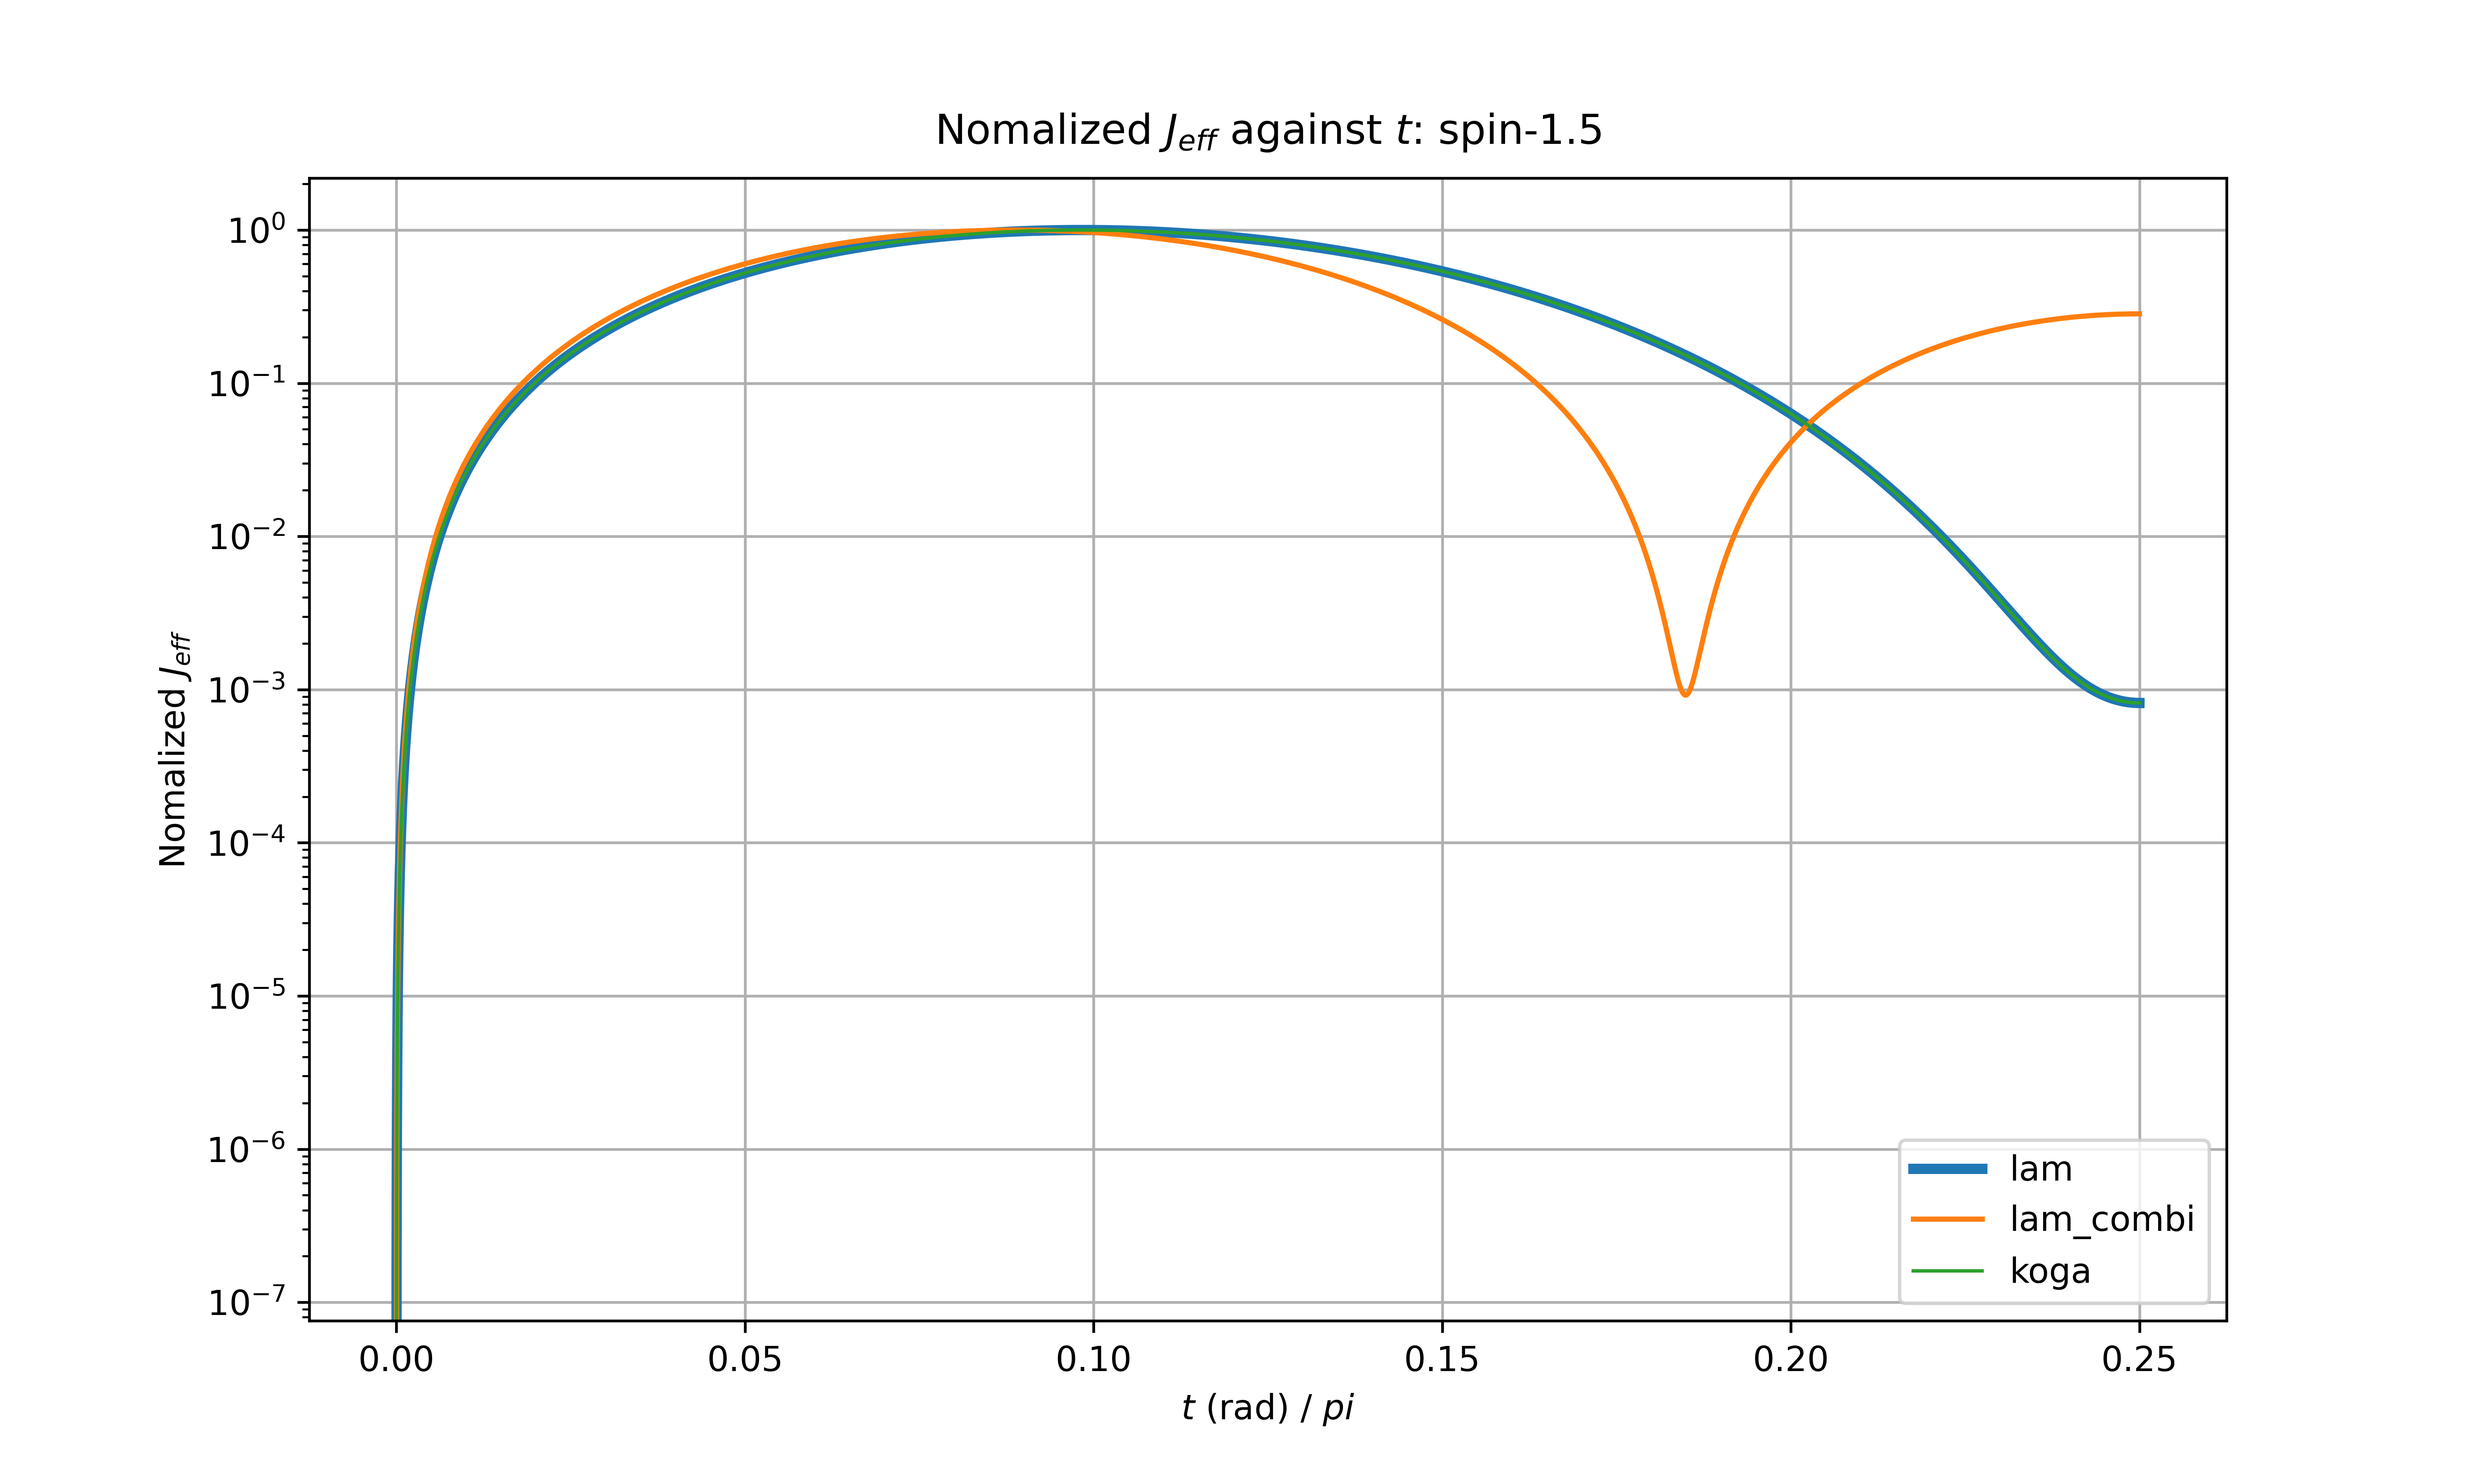
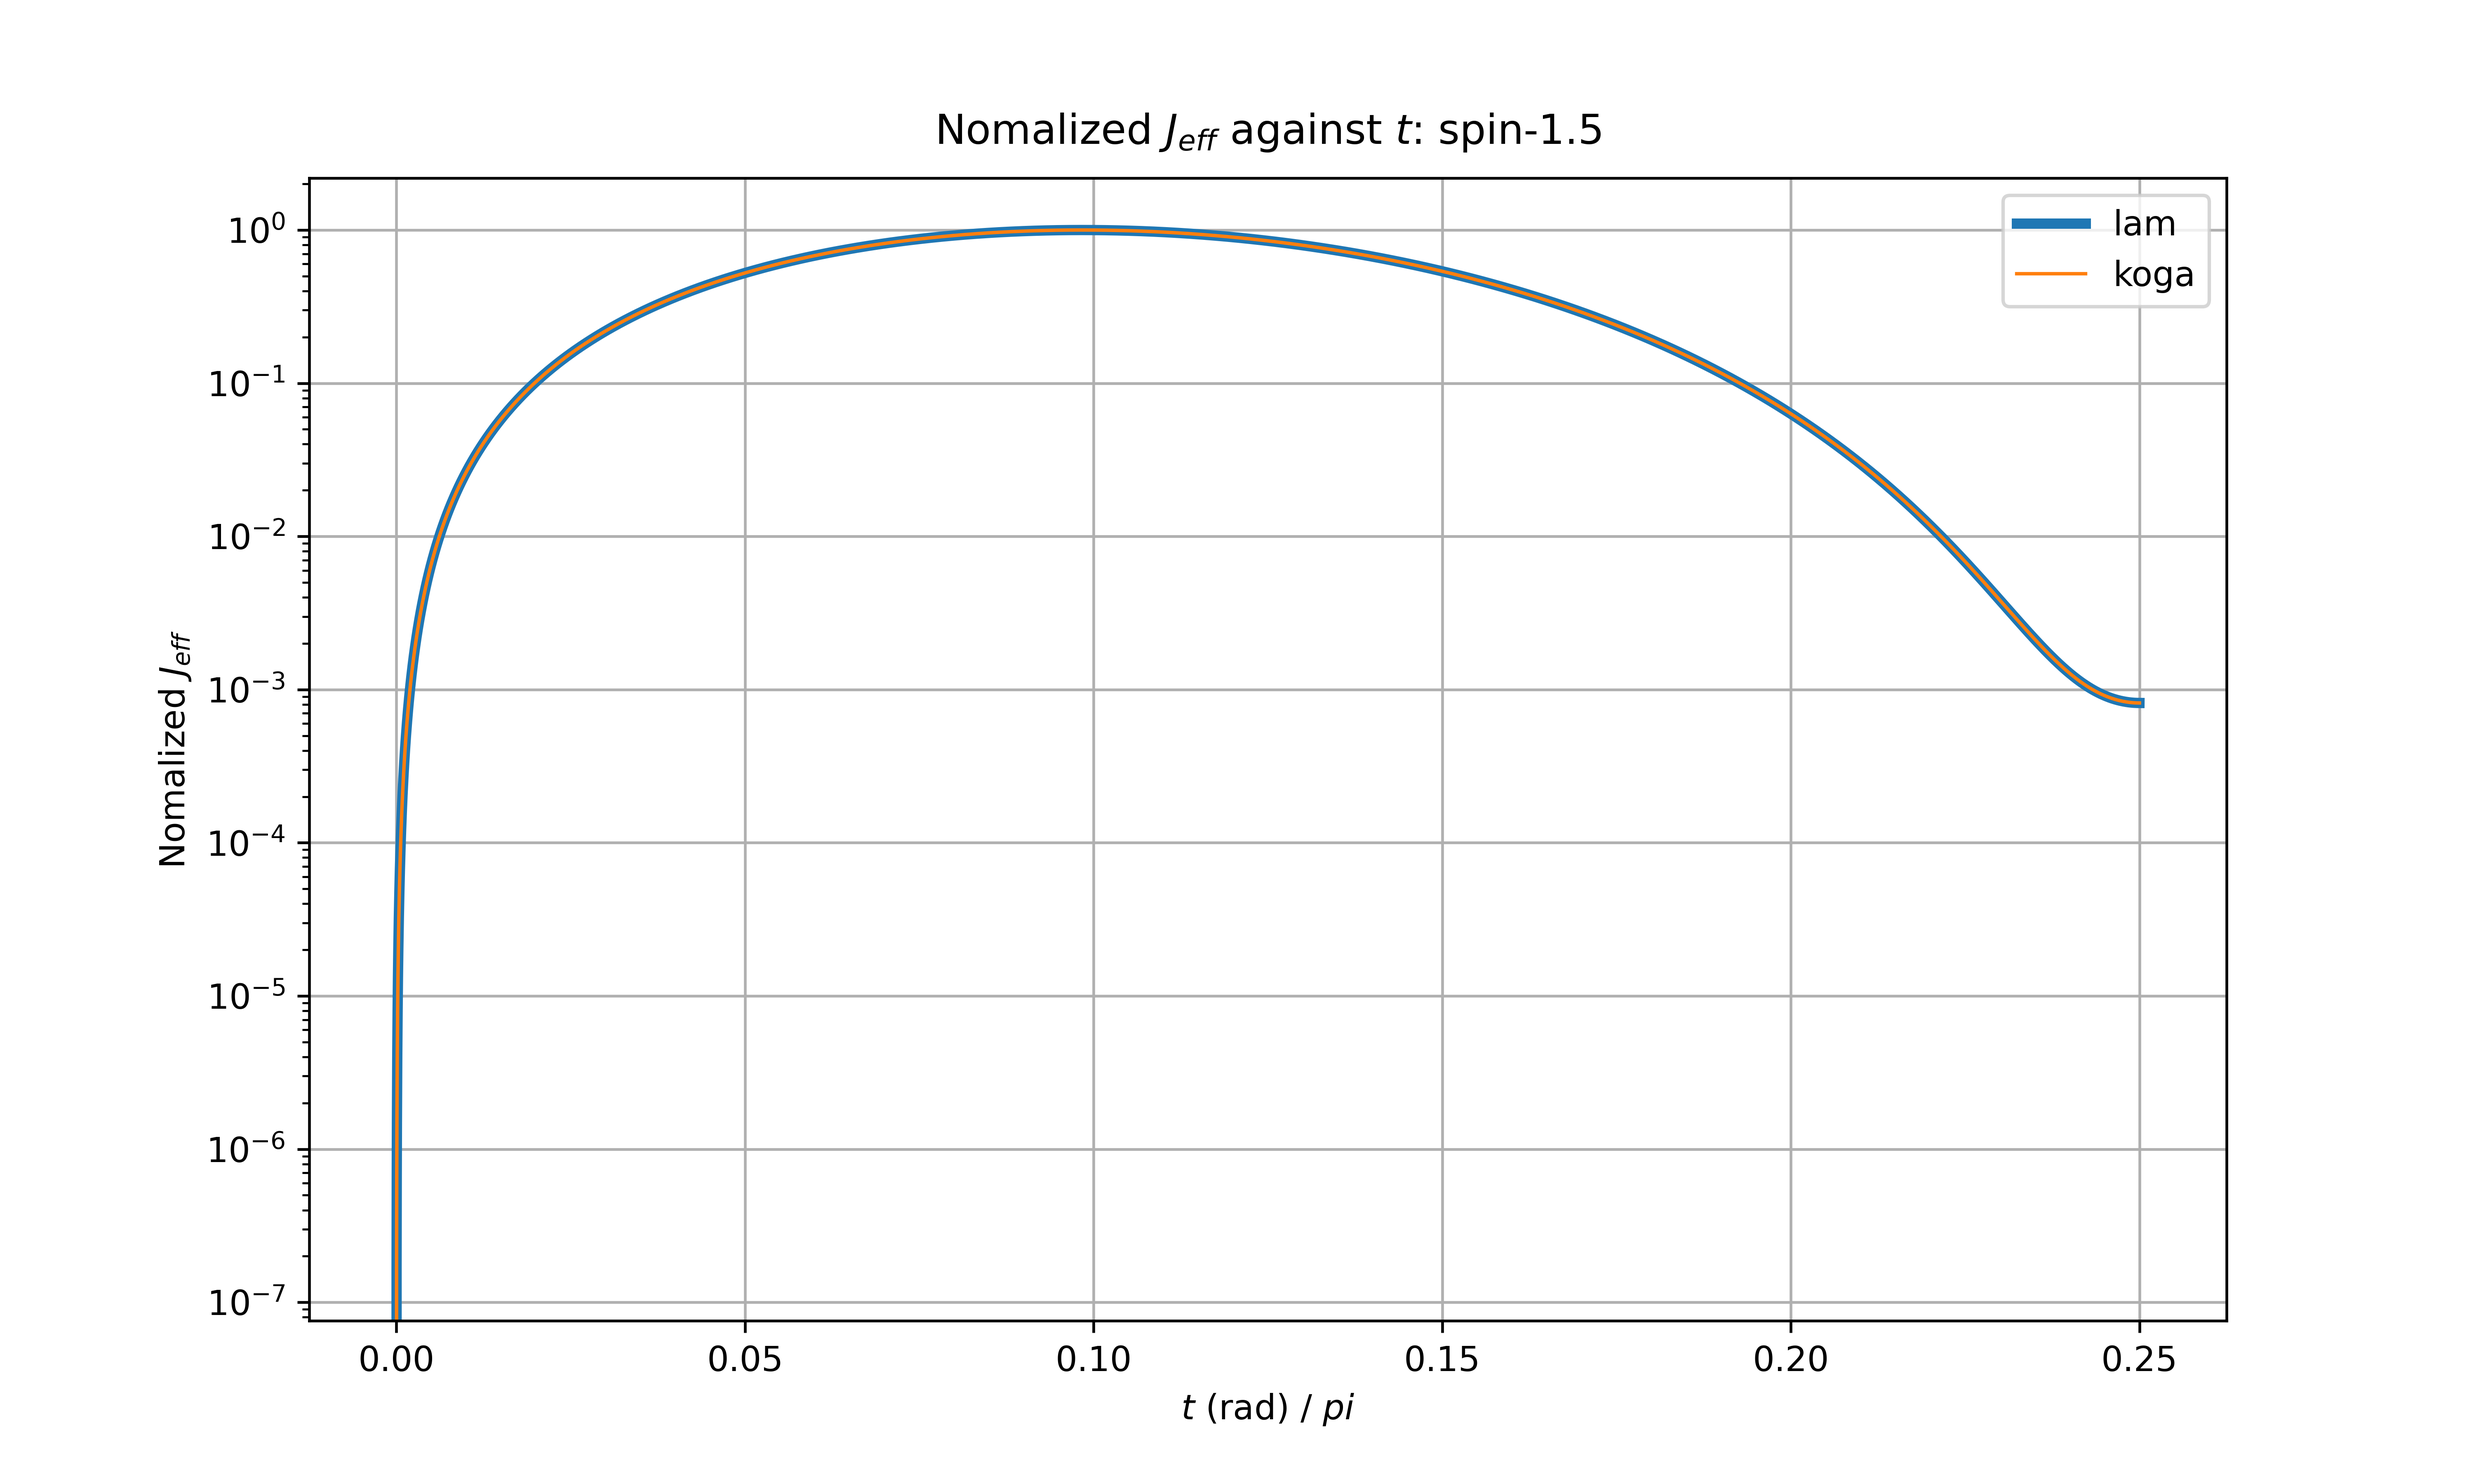
koga style approved

diff --git a/Analysis/utils_analysis.py b/Analysis/utils_analysis.py
@@ -10,7 +10,7 @@ os.chdir(script_dir)
 
 ##### helper functions ####
 def read_results(filename):
-    koga_dict, lam_dict, lam_combi_dict = {}, {}, {}
+    koga_dict, lam_dict = {}, {}
     with open(filename, 'r') as file:
         for line in file:
 
@@ -33,40 +33,29 @@ def read_results(filename):
                 # Extract sub-key (a, b, c, d, e, f, g / mu, nu, la, denom)
                 key_sub = key_part.split('_')[-1]
 
-                # Check if there's a comma in the value string
-                if ',' in value_str:
-                    value_decimal_str, integer_str = value_str.split(',')
-                    value_decimal = Decimal(value_decimal_str.strip())
-                    integer_value = int(integer_str.strip())
-                else:
-                    # If there's no integer part after the comma, assume it to be 1
-                    value_decimal = Decimal(value_str.strip())
+                # extract diagram coefficient after :
+                value_decimal = Decimal(value_str.strip())
 
             if line.startswith('koga'):
-                # Initialize dictionary for the main key if it doesn't exist
+                # Initialize dictionary for main key if it doesn't exist
                 if key_main not in koga_dict:
                     koga_dict[key_main] = []
                 # Assign the decimal value to the appropriate sub-key
                 koga_dict[key_main].append(value_decimal)
 
             elif line.startswith('lam'):
-                # Initialize the dictionary for the main key if it doesn't exist
+                # Initialize dictionary for main key if it doesn't exist
                 if key_main not in lam_dict:
                     lam_dict[key_main] = []
                 
-                if key_main not in lam_combi_dict:
-                    lam_combi_dict[key_main] = []                
-
                 # Assign the Decimal and Decimal * value_integer to the appropriate sub-key
                 lam_dict[key_main].append(Decimal(value_decimal))
-                lam_combi_dict[key_main].append(Decimal(value_decimal*integer_value))
 
     # convert all lists to tuples in all three dicts
     koga_dict = {k: tuple(v) if isinstance(v, list) else v for k, v in koga_dict.items()}
     lam_dict = {k: tuple(v) if isinstance(v, list) else v for k, v in lam_dict.items()}
-    lam_combi_dict = {k: tuple(v) if isinstance(v, list) else v for k, v in lam_combi_dict.items()}
 
-    return koga_dict, lam_dict, lam_combi_dict
+    return koga_dict, lam_dict
 
 def trigo(t):
     x,y = Decimal(cos(t)), Decimal(sin(t))
@@ -80,14 +69,6 @@ def J_eff_sum_lam(t, coeff_tuple, spin_S):
     
     if spin_S == '1.5':
         a,b,c,d,e,f,g = coeff_tuple
-
-        """
-        x10_y2 = Decimal(e * ((x**10) * (y**2)))
-        x8_y4 = Decimal((-2*b - 2*d) * ((x**8) * (y**4)))
-        x6_y6 = Decimal((a + c + 2*f + 2*g) * ((x**6) * (y**6)))
-        x4_y8 = Decimal((-2*b - 2*d) * ((x**4) * (y**8)))
-        x2_y10 = Decimal(e * ((x**2) * (y**10)))
-        """
 
         x10_y2 = Decimal(c * ((x**10) * (y**2)))
         x8_y4 = Decimal((-2*b - 2*f) * ((x**8) * (y**4)))
@@ -180,11 +161,10 @@ def normalize_J_eff(func, coeff, spin_S, t_values):
     
     return normalized_J_eff
 
-def plot_koga_lam(t_values, norm_J_eff_lam, norm_J_eff_lam_combi, norm_J_eff_koga, spin_S):
+def plot_koga_lam(t_values, norm_J_eff_lam,  norm_J_eff_koga, spin_S):
 
     plt.figure(figsize=(10, 6))
     plt.plot(t_values / pi, norm_J_eff_lam, label='lam', linewidth = 3)
-    plt.plot(t_values / pi, norm_J_eff_lam_combi, label='lam_combi')
     plt.plot(t_values / pi, norm_J_eff_koga, label='koga', linewidth = 1)
     plt.xlabel(r'$t$ (rad) / $pi$')
     plt.ylabel(r'Nomalized $J_{eff}$')

diff --git a/Analysis/main_analysis.py b/Analysis/main_analysis.py
@@ -18,10 +18,10 @@ if len(runtime_inputs) > 1:
     spin_S = sys.argv[1]
 
 # read in Koga and Lam results from text file
-koga_dict, lam_dict, lam_combi_dict = read_results(f'results_collated.txt')
+koga_dict, lam_dict = read_results(f'results_collated.txt')
 
 # extract results for spin_S
-koga_coeff, lam_coeff, lam_combi_coeff = koga_dict[spin_S], lam_dict[spin_S], lam_combi_dict[spin_S]
+koga_coeff, lam_coeff = koga_dict[spin_S], lam_dict[spin_S]
 
 
 ##### analysis 1: compute J_eff_sum and plot #####
@@ -30,8 +30,7 @@ t_values = np.linspace(0, pi/4, 10000)
 
 # Calculate coupling constants for each t
 norm_J_eff_lam = normalize_J_eff(J_eff_sum_lam, lam_coeff, spin_S, t_values)
-norm_J_eff_lam_combi = normalize_J_eff(J_eff_sum_lam, lam_combi_coeff, spin_S, t_values)
 norm_J_eff_koga = normalize_J_eff(J_eff_sum_koga, koga_coeff, spin_S, t_values)
 
 # Plot the results
-plot_koga_lam(t_values, norm_J_eff_lam, norm_J_eff_lam_combi, norm_J_eff_koga, spin_S)
+plot_koga_lam(t_values, norm_J_eff_lam, norm_J_eff_koga, spin_S)

diff --git a/core.py b/core.py
@@ -99,10 +99,10 @@ def process_permute(bond_permute):
     A_sites_combi = gen_A_sites_combi(A_sites)
 
     # combi computation
+    # removed unique_count = len(np.unique(A_sites))
+    # no need to consider (2 ** unique_count) multiplicative factor (A sites)
+    # and certainly no need for different starting configurations at the Z-links
     Z_fixed_combi_sum = compute_combi_coeff(bond_permute, A_sites_combi, Z_sites, A_sites)
-    #unique_count = len(np.unique(A_sites))
-    #permute_sum = Z_fixed_combi_sum_Trie * (2 ** unique_count)
-    #permute_sum = Z_fixed_combi_sum
 
     return bond_permute, Z_fixed_combi_sum
 
